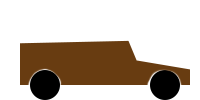
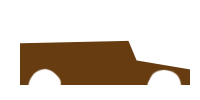
added torque effect on car body added scrolling background

Changed region(s): [[0.75, 0.69, 0.9, 1.0], [0.15, 0.69, 0.3, 1.0]]

diff --git a/CarGameXNA/CarGameXNA/Game1.cs b/CarGameXNA/CarGameXNA/Game1.cs
@@ -17,22 +17,28 @@ namespace CarGameXNA
     /// </summary>
     public class Game1 : Microsoft.Xna.Framework.Game
     {
+        float tempdivider = 0;
+        float groundY = 753f;
+        float velY = 0f;
+
         int _total_frames = 0;
         float _elapsed_time = 0.0f;
         int _fps = 0;
-        bool prevKeyGearUp, prevKeyGearDown;
+        bool prevKeyGearUp, prevKeyGearDown, prevKeyReverse;
         float power = 0;
-        double powerUpdateTime=0;
+        double powerUpdateTime = 0;
         SpriteFont font;
         GraphicsDeviceManager graphics;
         SpriteBatch spriteBatch;
         Car playerCar;
         Texture2D playerCarTexture;
         Texture2D playerCarWheel;
-        float wheelRotation = 0f;
+        Scrolling scrolling1, scrolling2;
+        float wheelRotation = 0f, playerRotation = 0f;
         Vector2 wheelPivot;
-        Vector2 playerPosition = new Vector2(0f, 600f);
-        Vector2 wheelPosition = new Vector2(0f, 600f);
+        Vector2 playerPivot;
+        Vector2 playerPosition = new Vector2(100f, 1f);
+        Vector2 wheelPosition = new Vector2(100f, 1f);
 
         public Game1()
         {
@@ -70,6 +76,10 @@ namespace CarGameXNA
             font = Content.Load<SpriteFont>("XNAFont");
             playerCarWheel = Content.Load<Texture2D>("wheel");
             wheelPivot = new Vector2(playerCarWheel.Width / 2, playerCarWheel.Height / 2);
+            playerPivot = new Vector2(playerCarTexture.Width / 2, playerCarTexture.Height / 2);
+            scrolling1 = new Scrolling(Content.Load<Texture2D>("background"), new Vector2(0, 0));
+            scrolling2 = new Scrolling(Content.Load<Texture2D>("background"), new Vector2(scrolling1.texture.Width, 0));
+
             // TODO: use this.Content to load your game content here
         }
 
@@ -90,7 +100,7 @@ namespace CarGameXNA
         protected override void Update(GameTime gameTime)
         {
             _elapsed_time += (float)gameTime.ElapsedGameTime.TotalMilliseconds;
-            if (_elapsed_time  >= 1000.0f)
+            if (_elapsed_time >= 1000.0f)
             {
                 _fps = _total_frames;
                 _total_frames = 0;
@@ -132,9 +142,17 @@ namespace CarGameXNA
             else
                 playerCar.brakePosition -= 5;
 
-          
-
-
+            if (Keyboard.GetState(PlayerIndex.One).GetPressedKeys().Contains<Keys>(Keys.R))
+            {
+                playerCar.GearReverse(true);
+                prevKeyReverse = true;
+            }
+            else
+            {
+                if (prevKeyReverse)
+                    prevKeyReverse = false;
+            }
+            
             if (Keyboard.GetState(PlayerIndex.One).GetPressedKeys().Contains<Keys>(Keys.Escape))
                 this.Exit();
 
@@ -143,10 +161,26 @@ namespace CarGameXNA
             playerCar.Calculate(gameTime.ElapsedGameTime.TotalMilliseconds);
 
 #warning "Trial and error to find out values to divide speed with"
-            playerPosition.X += (float)playerCar.GetSpeed() / 5f;
-            wheelPosition = playerPosition + new Vector2(45, 85);
-            wheelRotation += (float)playerCar.GetSpeed() / 200f;
-              
+            // playerPosition.X += (float)playerCar.GetSpeed() / 7f;
+            wheelPosition = playerPosition + new Vector2(45, 82);
+            wheelRotation += (float)playerCar.GetSpeed() / 140f;
+
+            if ((wheelPosition.Y + playerCarWheel.Height / 2 < groundY))
+                velY += 9.81f / 1000f;
+            else
+            {
+                velY = 0;
+                playerPosition.Y = groundY - 82;
+            }
+
+            tempdivider = (float)(gameTime.ElapsedGameTime.TotalMilliseconds / 1000d);
+            if (tempdivider != 0) playerPosition.Y += velY / tempdivider;
+
+
+            playerRotation = -(float)(playerCar.getForceOnCarX(gameTime.ElapsedGameTime.TotalMilliseconds) / (gameTime.ElapsedGameTime.TotalMilliseconds * 200f));
+
+
+
             if (playerPosition.X > GraphicsAdapter.DefaultAdapter.CurrentDisplayMode.Width - playerCarTexture.Width)
                 playerPosition.X = 0;
             if (gameTime.TotalGameTime.TotalSeconds - powerUpdateTime > 0.1d)
@@ -154,8 +188,27 @@ namespace CarGameXNA
                 powerUpdateTime = gameTime.TotalGameTime.TotalSeconds;
                 power = (power + playerCar.engine.GetPowerHP()) / 2f;
             }
-                // TODO: Add your update logic here
 
+            // TODO: Add your update logic here
+            if (playerCar.GetSpeed() > 0)
+            {
+                if (scrolling1.vector.X + scrolling1.texture.Width <= 0)
+                    scrolling1.vector.X = scrolling2.vector.X + scrolling2.texture.Width;
+                if (scrolling2.vector.X + scrolling2.texture.Width <= 0)
+                    scrolling2.vector.X = scrolling1.vector.X + scrolling1.texture.Width;
+            }
+            else
+            {
+                if (scrolling1.vector.X >= GraphicsAdapter.DefaultAdapter.CurrentDisplayMode.Width)
+                    scrolling1.vector.X = scrolling2.vector.X - scrolling1.texture.Width;
+                if (scrolling2.vector.X >= GraphicsAdapter.DefaultAdapter.CurrentDisplayMode.Width)
+                    scrolling2.vector.X = scrolling1.vector.X - scrolling2.texture.Width;
+            }
+
+
+
+            scrolling1.Update(-(float)playerCar.GetSpeed() / 7f);
+            scrolling2.Update(-(float)playerCar.GetSpeed() / 7f);
             base.Update(gameTime);
         }
 
@@ -166,14 +219,17 @@ namespace CarGameXNA
         protected override void Draw(GameTime gameTime)
         {
             _total_frames++;
-            GraphicsDevice.Clear(Color.CornflowerBlue);
+            GraphicsDevice.Clear(Color.LightGreen);
 
             // TODO: Add your drawing code here
             spriteBatch.Begin();
-            spriteBatch.Draw(playerCarTexture, playerPosition, Color.White);
-            spriteBatch.Draw(playerCarWheel, wheelPosition ,null, Color.White,wheelRotation,wheelPivot,1.0f,SpriteEffects.None,0f);
-            spriteBatch.Draw(playerCarWheel, wheelPosition+new Vector2(120,0), null, Color.White, wheelRotation, wheelPivot, 1.0f, SpriteEffects.None, 0f);
-            spriteBatch.DrawString(font, String.Format("Speed: {0}\nRpm: {1}\nGear: {2}\nPower(Hp): {3}\nFps: {4}", playerCar.GetSpeed(),playerCar.engine.currentRPM, playerCar.Gear,(int)power,_fps), Vector2.Zero, Color.Black);
+            scrolling1.Draw(spriteBatch);
+            scrolling2.Draw(spriteBatch);
+            spriteBatch.Draw(playerCarWheel, wheelPosition, null, Color.White, wheelRotation, wheelPivot, 1.0f, SpriteEffects.None, 0f);
+            spriteBatch.Draw(playerCarWheel, wheelPosition + new Vector2(120, 0), null, Color.White, wheelRotation, wheelPivot, 1.0f, SpriteEffects.None, 0f);
+            spriteBatch.Draw(playerCarTexture, wheelPosition + new Vector2(55, -38), null, Color.White, playerRotation, playerPivot, 1.0f, SpriteEffects.None, 0f);
+            //spriteBatch.Draw(playerCarTexture, playerPosition, Color.White);
+            spriteBatch.DrawString(font, String.Format("Speed: {0}\nRpm: {1}\nGear: {2}\nPower(Hp): {3}\nFps: {4}", (int)playerCar.GetSpeed(), playerCar.engine.currentRPM, playerCar.Gear, (int)power, _fps), Vector2.Zero, Color.Black);
             spriteBatch.End();
 
             base.Draw(gameTime);

diff --git a/CarGameXNA/CarGameXNA/Scrolling.cs b/CarGameXNA/CarGameXNA/Scrolling.cs
@@ -1,0 +1,31 @@
+using System;
+using System.Collections.Generic;
+using System.Linq;
+using System.Text;
+using Microsoft.Xna.Framework;
+using Microsoft.Xna.Framework.Graphics;
+
+namespace CarGameXNA
+{
+    class Background
+    {
+        public Texture2D texture;
+        public Vector2 vector;
+        public void Draw(SpriteBatch spriteBatch)
+        {
+            spriteBatch.Draw(texture, vector, Color.White);
+        }
+    }
+    class Scrolling : Background
+    {
+        public Scrolling(Texture2D newTexture,Vector2 newVector)
+        {
+           texture = newTexture;
+            vector = newVector;
+        }
+        public void Update(float x)
+        {
+            vector.X += x;
+        }
+    }
+}
